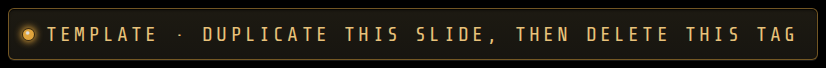
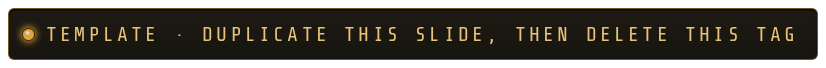
IDEA-Blade deck template tag on a transparent ground (ledger 0382)
Claude-Session: https://claude.ai/code/session_01NR3uqvqQgRcJ76aLTsC3UB

diff --git a/docs/decks/ideablade/slides.html b/docs/decks/ideablade/slides.html
@@ -15,7 +15,7 @@
  --text-1:#e7eae8;--caption:#b9c0bb;--green:#78b870;--glow:rgba(143,224,138,.38);--bloom:rgba(120,184,112,.3);
 }
 *{box-sizing:border-box;margin:0}
-body{width:1920px;height:1080px;background:#000;overflow:hidden}
+body{width:1920px;height:1080px;background:transparent;overflow:hidden}
 .slide{position:relative;width:1920px;height:1080px;overflow:hidden;font-family:Rajdhani;color:var(--text-1);
  background:linear-gradient(to bottom,var(--plate-top),var(--plate-bot) 760px);}
 .mono{font-family:"Share Tech Mono";text-transform:uppercase;letter-spacing:.22em;color:var(--caption)}
